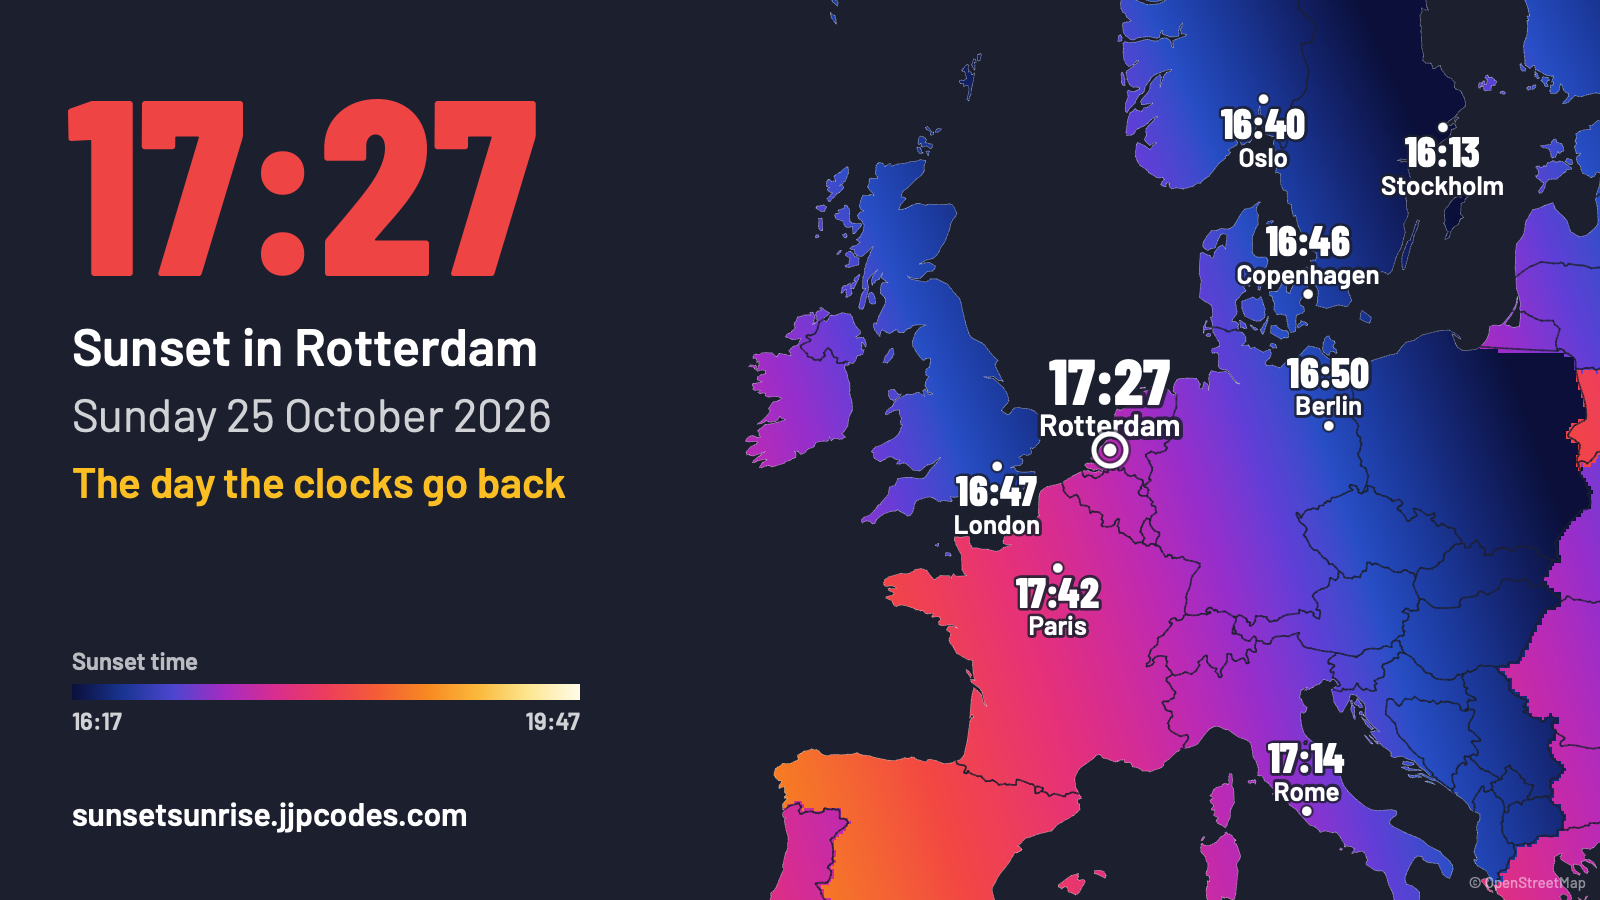
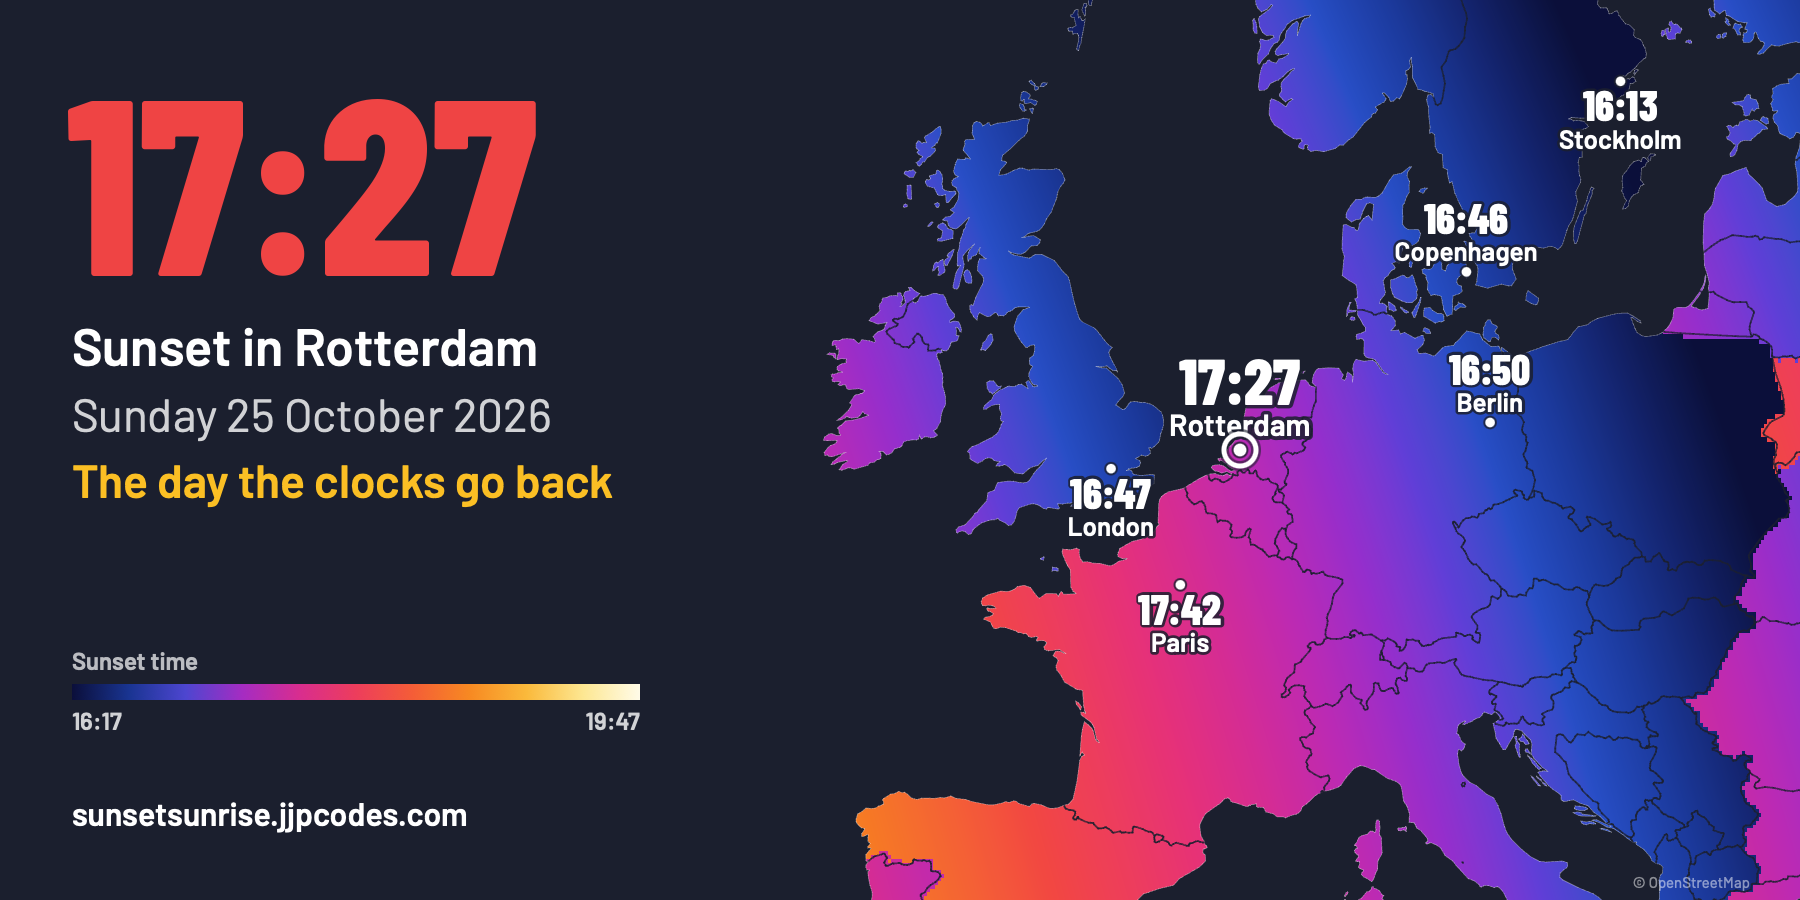
Share pictures in the shapes Twitter shows whole
A picture for a post is 20:17 (1600x1360), the widest shape Twitter's carousel
shows whole: the words across the top, the map the full width below, the key
and address across the foot. The link preview is 2:1 (1800x900), with wider
side margins because Twitter may trim it to 1.91:1.

diff --git a/index.html b/index.html
@@ -1220,55 +1220,78 @@ document.getElementById('calendar-grid').addEventListener('click', event => { co
 // ================================================================ Share pictures: built for the frame they land in
 // The map fills its part of the frame; the words sit on Ryan Hall's navy beside or above it. Framing comes from the link
 // alone (the place and its surroundings), so the same link always makes the same picture.
-function drawShareImage() {
-  const W = 1600, H = 900, safe = 66, margin = 72;
+// Two shapes, each one Twitter shows whole. A picture attached to a post is 20:17, the widest shape Twitter's carousel shows
+// whole; it shows it whole on its own too. A link's preview is 2:1, which Twitter may trim to 1.91:1, so its sides keep a wide margin.
+const SHARE_SHAPES = { post: { width: 1600, height: 1360 }, link: { width: 1800, height: 900 } };
+function drawShareImage(shapeName = 'post') {
+  const { width: W, height: H } = SHARE_SHAPES[shapeName], margin = 72;
   const canvas = document.createElement('canvas'); canvas.width = W; canvas.height = H;
   const context = canvas.getContext('2d');
   context.fillStyle = SEA; context.fillRect(0, 0, W, H);
   const result = placeEvent(state.place, state.dayUtcMs, state.event, state.clocks), change = clockChangeToday();
   const tag = change ? clockChangeWords(change) : clocksWords[state.clocks] || '';
-  // The map, on the right, the full height of the image.
-  const map = { x: 620, y: 0, width: W - 620, height: H };
-  const projection = d3.geoMercator().scale(map.width / (40 * DEG)).translate([0, 0]);
-  const [px, py] = projection([state.place.lon, state.place.lat]);
-  projection.translate([map.width / 2 - px, map.height * 0.5 - py]);
   const domain = dayDomain(state.dayUtcMs, state.event, state.clocks);
-  const [tx, ty] = projection.translate();
-  imageRenderer.draw({ width: map.width, height: map.height, pixelRatio: 1, scale: projection.scale(), translate: [tx, ty], lineScale: 1.8 }, pictureFor(state.dayUtcMs, state.event, state.clocks, domain));
-  context.drawImage(imageRenderer.canvas, map.x, map.y);
-  context.save(); context.translate(map.x, map.y);
-  context.beginPath(); context.rect(0, 0, map.width, map.height); context.clip();
-  const keepClear = [[0, 0, map.width, safe], [0, map.height - safe, map.width, map.height]];
-  drawLabels(context, projection, layoutLabels(context, projection, map.width, map.height, 2, state.place, keepClear, 9), 2, state.dayUtcMs, state.event, state.clocks, state.place);
-  drawChosenPlace(context, projection, state.place, 2);
-  context.restore();
-  // The words, on the left.
-  const textWidth = map.x - margin - 40;
-  const fit = (text, weight, size, family = 'Barlow') => { context.font = `${weight} ${size}px ${family}`; while (context.measureText(text).width > textWidth && size > 24) { size -= 2; context.font = `${weight} ${size}px ${family}`; } return size; };
-  context.textAlign = 'left'; context.textBaseline = 'alphabetic';
-  context.fillStyle = '#ef4444'; fit(eventWords(result), 800, result.polar ? 120 : 250, '"Barlow Condensed"');
-  context.fillText(eventWords(result), margin - 6, safe + 210);
-  context.fillStyle = '#ffffff'; fit(result.polar ? `No ${state.event} ${placePhrase(state.place)}` : `${eventName()} ${placePhrase(state.place)}`, 600, 52);
-  context.fillText(result.polar ? `No ${state.event} ${placePhrase(state.place)}` : `${eventName()} ${placePhrase(state.place)}`, margin, safe + 300);
-  context.fillStyle = '#ffffffcc'; fit(longDate.format(state.dayUtcMs), 400, 46);
-  context.fillText(longDate.format(state.dayUtcMs), margin, safe + 366);
-  if (tag) { context.fillStyle = '#fbbf24'; fit(tag, 600, 46); context.fillText(tag, margin, safe + 432); }
-  // The key and the address, at the foot of the words.
-  const earliest = Math.min(localFromEvening(domain[0], state.event), localFromEvening(domain[1], state.event));
-  const latest = Math.max(localFromEvening(domain[0], state.event), localFromEvening(domain[1], state.event));
-  const keyTop = H - safe - 150, keyWidth = textWidth;
-  context.fillStyle = '#ffffffb3'; context.font = '600 24px Barlow';
-  context.fillText(state.event === 'sunset' ? 'Sunset time' : 'Sunrise time', margin, keyTop - 14);
-  const bar = context.createLinearGradient(margin, 0, margin + keyWidth, 0);
-  d3.range(0, 1.0001, 0.1).forEach(f => bar.addColorStop(f, rampColourAt(eveningEquivalent(earliest + f * (latest - earliest), state.event), domain)));
-  context.fillStyle = bar; context.fillRect(margin, keyTop, keyWidth, 16);
-  context.fillStyle = '#ffffffcc'; context.font = '600 24px Barlow';
-  context.fillText(formatClock(earliest), margin, keyTop + 46);
-  context.textAlign = 'right'; context.fillText(formatClock(latest), margin + keyWidth, keyTop + 46);
-  context.textAlign = 'left'; context.fillStyle = '#ffffff'; context.font = '600 32px Barlow';
-  context.fillText('sunsetsunrise.jjpcodes.com', margin, H - safe - 8);
-  context.textAlign = 'right'; context.fillStyle = '#ffffff80'; context.font = '400 15px Barlow';
-  context.fillText('© OpenStreetMap', W - 14, H - 12);
+  const time = eventWords(result);
+  const headline = result.polar ? `No ${state.event} ${placePhrase(state.place)}` : `${eventName()} ${placePhrase(state.place)}`;
+  const date = longDate.format(state.dayUtcMs);
+  const fit = (text, weight, size, widthLimit, family = 'Barlow') => { context.font = `${weight} ${size}px ${family}`; while (context.measureText(text).width > widthLimit && size > 24) { size -= 2; context.font = `${weight} ${size}px ${family}`; } return size; };
+  const write = (text, x, baseline, colour, font, align = 'left') => { context.fillStyle = colour; context.font = font; context.textAlign = align; context.fillText(text, x, baseline); };
+  context.textBaseline = 'alphabetic';
+
+  function drawMap(map, keepClear, placeY = map.height * 0.5) {
+    const projection = d3.geoMercator().scale(map.width / (40 * DEG)).translate([0, 0]);
+    const [px, py] = projection([state.place.lon, state.place.lat]);
+    projection.translate([map.width / 2 - px, placeY - py]);
+    const [tx, ty] = projection.translate();
+    imageRenderer.draw({ width: map.width, height: map.height, pixelRatio: 1, scale: projection.scale(), translate: [tx, ty], lineScale: 1.8 }, pictureFor(state.dayUtcMs, state.event, state.clocks, domain));
+    context.drawImage(imageRenderer.canvas, map.x, map.y);
+    context.save(); context.translate(map.x, map.y);
+    context.beginPath(); context.rect(0, 0, map.width, map.height); context.clip();
+    drawLabels(context, projection, layoutLabels(context, projection, map.width, map.height, 2, state.place, keepClear, 9), 2, state.dayUtcMs, state.event, state.clocks, state.place);
+    drawChosenPlace(context, projection, state.place, 2);
+    context.restore();
+  }
+  function drawKey(x, top, keyWidth, fontSize) {
+    const earliest = Math.min(localFromEvening(domain[0], state.event), localFromEvening(domain[1], state.event));
+    const latest = Math.max(localFromEvening(domain[0], state.event), localFromEvening(domain[1], state.event));
+    write(state.event === 'sunset' ? 'Sunset time' : 'Sunrise time', x, top - 14, '#ffffffb3', `600 ${fontSize}px Barlow`);
+    const bar = context.createLinearGradient(x, 0, x + keyWidth, 0);
+    d3.range(0, 1.0001, 0.1).forEach(f => bar.addColorStop(f, rampColourAt(eveningEquivalent(earliest + f * (latest - earliest), state.event), domain)));
+    context.fillStyle = bar; context.fillRect(x, top, keyWidth, 16);
+    write(formatClock(earliest), x, top + 22 + fontSize, '#ffffffcc', `600 ${fontSize}px Barlow`);
+    write(formatClock(latest), x + keyWidth, top + 22 + fontSize, '#ffffffcc', `600 ${fontSize}px Barlow`, 'right');
+  }
+
+  if (shapeName === 'post') {
+    // The map fills the picture; the words across the top and the key and address across the foot sit on navy that fades into it.
+    const wordsBottom = 300, footTop = H - 170;
+    drawMap({ x: 0, y: 0, width: W, height: H }, [[0, 0, W, wordsBottom + 90], [0, footTop - 90, W, H]], (wordsBottom + footTop) / 2);
+    const fade = (from, to) => { const gradient = context.createLinearGradient(0, from, 0, to); gradient.addColorStop(0, SEA); gradient.addColorStop(1, SEA + '00'); return gradient; };
+    context.fillStyle = SEA; context.fillRect(0, 0, W, wordsBottom); context.fillRect(0, footTop, W, H - footTop);
+    context.fillStyle = fade(wordsBottom, wordsBottom + 90); context.fillRect(0, wordsBottom, W, 90);
+    context.fillStyle = fade(footTop, footTop - 90); context.fillRect(0, footTop - 90, W, 90);
+    write('© OpenStreetMap', W - 14, H - 12, '#ffffff80', '400 15px Barlow', 'right');
+    const timeSize = fit(time, 800, result.polar ? 150 : 270, W * 0.45, '"Barlow Condensed"');
+    write(time, margin - 8, 270, '#ef4444', `800 ${timeSize}px "Barlow Condensed"`);
+    const wordsX = margin + context.measureText(time).width + 56, wordsWidth = W - margin - wordsX;
+    write(headline, wordsX, 150, '#ffffff', `600 ${fit(headline, 600, 64, wordsWidth)}px Barlow`);
+    write(date, wordsX, 218, '#ffffffcc', `400 ${fit(date, 400, 50, wordsWidth)}px Barlow`);
+    if (tag) write(tag, wordsX, 280, '#fbbf24', `600 ${fit(tag, 600, 50, wordsWidth)}px Barlow`);
+    drawKey(margin, footTop + 56, 640, 30);
+    write('sunsetsunrise.jjpcodes.com', W - margin, H - 50, '#ffffff', '600 48px Barlow', 'right');
+    return canvas;
+  }
+  // The link preview: the words on the left, the map on the right, the full height of the image.
+  const safe = 66, mapX = 680;
+  drawMap({ x: mapX, y: 0, width: W - mapX, height: H }, [[0, 0, W - mapX, safe], [0, H - safe, W - mapX, H]]);
+  write('© OpenStreetMap', W - 50, H - 12, '#ffffff80', '400 15px Barlow', 'right');
+  const textWidth = mapX - margin - 40;
+  write(time, margin - 6, safe + 210, '#ef4444', `800 ${fit(time, 800, result.polar ? 120 : 250, textWidth, '"Barlow Condensed"')}px "Barlow Condensed"`);
+  write(headline, margin, safe + 300, '#ffffff', `600 ${fit(headline, 600, 52, textWidth)}px Barlow`);
+  write(date, margin, safe + 366, '#ffffffcc', `400 ${fit(date, 400, 46, textWidth)}px Barlow`);
+  if (tag) write(tag, margin, safe + 432, '#fbbf24', `600 ${fit(tag, 600, 46, textWidth)}px Barlow`);
+  drawKey(margin, H - safe - 150, textWidth, 24);
+  write('sunsetsunrise.jjpcodes.com', margin, H - safe - 8, '#ffffff', '600 32px Barlow');
   return canvas;
 }
 const canvasBlob = canvas => new Promise((resolve, reject) => canvas.toBlob(blob => blob ? resolve(blob) : reject(new Error('Could not create the image')), 'image/png'));
@@ -1414,7 +1437,7 @@ if (!params.get('place') && !params.get('point')) {
 // A link's preview picture at full size, for checking: ?card=link or ?card=post
 if (params.get('card')) {
   const view = document.createElement('div'); view.className = 'card-view';
-  const image = new Image(); image.src = drawShareImage().toDataURL('image/png');
+  const image = new Image(); image.src = drawShareImage(params.get('card') === 'link' ? 'link' : 'post').toDataURL('image/png');
   view.append(image); document.body.append(view);
 }
 window.sunsetDesign = { colourOfDay: minutes => rampColourAt(minutes, dayDomain()), zoneAnchors: () => zoneAnchors, landDeviation: geometry.land.worstDeviation, state, placeEvent, cities: searchOrder, formatClock, render, setDay, transformTo: t => { transform = t; render(); } };
